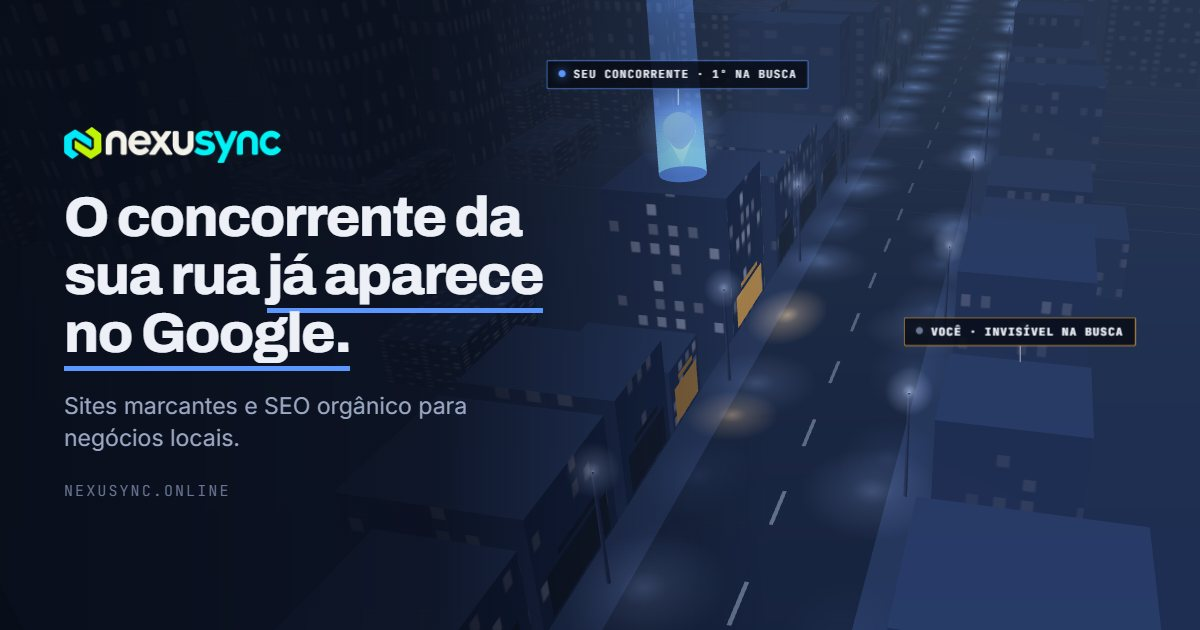
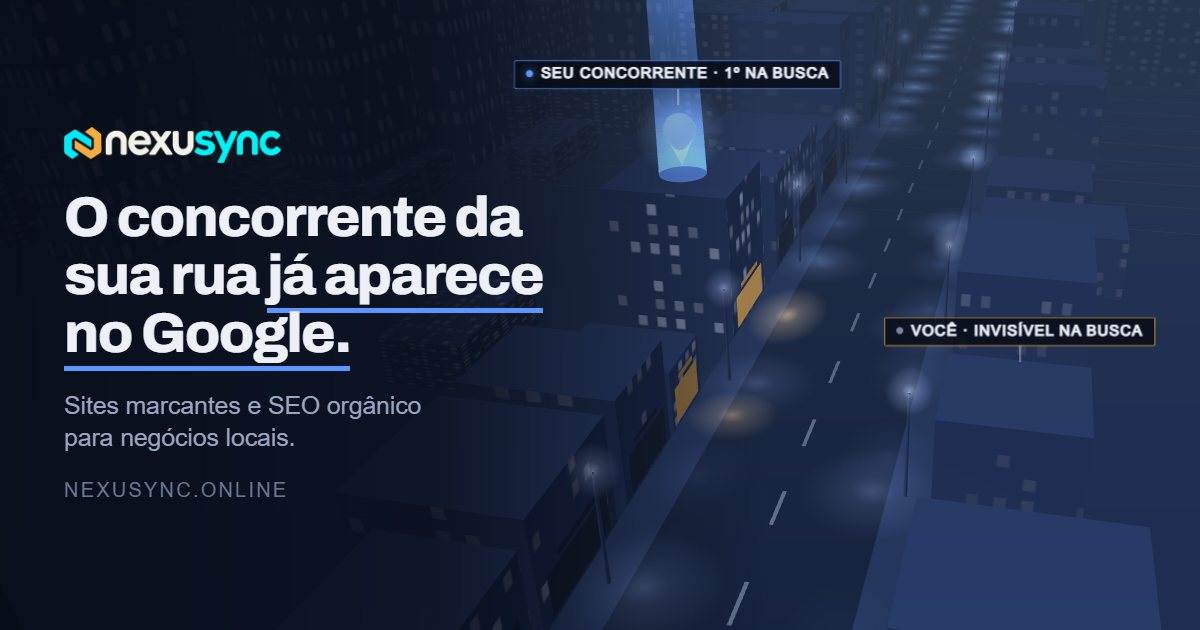
Restore the Open Graph images of the inner pages
site-preview-desktop.webp was deleted in 8468977, so every inner page
shared a 404 image, and /quem-somos pointed at a file that never existed.
New generic card og-nexusync.jpg (1200x630) is the default for all of
them, and the home card is regenerated with the amber logo.

diff --git a/src/app/(site)/layout.tsx b/src/app/(site)/layout.tsx
@@ -17,9 +17,9 @@ export const metadata: Metadata = {
       "Criação de sites, aplicativos, design e marketing para empresas que querem apresentar melhor seus serviços e facilitar o contato.",
     images: [
       {
-        url: "/images/site-preview-desktop.webp",
-        width: 1440,
-        height: 1000,
+        url: "/images/og-nexusync.jpg",
+        width: 1200,
+        height: 630,
         alt: "Exemplo de site desenvolvido pela NexuSync",
       },
     ],
@@ -29,7 +29,7 @@ export const metadata: Metadata = {
     title: "NexuSync | Sites e soluções digitais para empresas",
     description:
       "Criação de sites, aplicativos, design e marketing para empresas que querem apresentar melhor seus serviços e facilitar o contato.",
-    images: ["/images/site-preview-desktop.webp"],
+    images: ["/images/og-nexusync.jpg"],
   },
 };
 

diff --git a/src/app/(site)/quem-somos/page.tsx b/src/app/(site)/quem-somos/page.tsx
@@ -9,9 +9,9 @@ export const metadata: Metadata = {
   alternates: { canonical: "https://nexusync.online/quem-somos" },
   openGraph: {
     title, description, url: "https://nexusync.online/quem-somos", type: "website", locale: "pt_BR", siteName: "NexuSync",
-    images: [{ url: "https://nexusync.online/images/capa-nexusync.png", alt: "NexuSync — Soluções digitais" }],
+    images: [{ url: "https://nexusync.online/images/og-nexusync.jpg", alt: "NexuSync — Soluções digitais" }],
   },
-  twitter: { card: "summary_large_image", title, description, images: ["https://nexusync.online/images/capa-nexusync.png"] },
+  twitter: { card: "summary_large_image", title, description, images: ["https://nexusync.online/images/og-nexusync.jpg"] },
 };
 
 export default function AboutPage() { return <AboutExperience />; }

diff --git a/src/lib/site-metadata.ts b/src/lib/site-metadata.ts
@@ -1,6 +1,6 @@
 import type { Metadata } from "next";
 
-const previewImage = "/images/site-preview-desktop.webp";
+const previewImage = "/images/og-nexusync.jpg";
 
 export function nexuSyncMetadata({
   title,

diff --git a/docs/Nexusync_Plano_de_Desenvolvimento.md b/docs/Nexusync_Plano_de_Desenvolvimento.md
@@ -417,6 +417,8 @@ O TBT que sobra vem sobretudo da compilação de shaders no primeiro quadro: o C
 - **Acessibilidade:** home e páginas internas medidas com script próprio (contraste mínimo de 4,5:1 e ordem dos títulos); `/contato` tinha dois `h1`. Contraste de textos opacos em mocks (labels de 7 px de demos) e estados desabilitados não foi tratado.
 - **Performance da home:** framer-motion e o chrome animado saíram do JS inicial (cerca de 216 KB para 161 KB gzip) e a cena 3D começa em idle depois do `load`. Lighthouse oficial a rodar depois do deploy.
 - **Limpeza:** 30 componentes sem rota removidos (`PilotosLanding` ficou), dependência `@heroicons/react` removida.
+- **Logo sem lima:** a metade lima do símbolo virou âmbar (`#ffb547`) em `logo-big`, `logo-text`, `icon`, `image-icon*`, favicons, ícones Android e Apple, nas capas e criativos de divulgação, no vídeo de exemplo e na imagem Open Graph da home. Os ícones de `src/app` (`icon.png`, `apple-icon.png`, `favicon.ico`) ainda eram a versão **roxa** antiga e, por serem arquivos de convenção do Next, tinham prioridade sobre `metadata.icons`; foram substituídos e a versão do cache subiu para `v=20261120`.
+- **Open Graph das páginas internas:** o padrão `site-preview-desktop.webp` tinha sido apagado no commit `8468977`, então a imagem de compartilhamento das páginas internas dava 404 (e `/quem-somos` apontava para `capa-nexusync.png`, que não existe). Criei `public/images/og-nexusync.jpg` (1200×630) e todas passam a usá-la.
 
 ### Fase 6 — Lançamento
 - [ ] Revisão final com você na branch.
